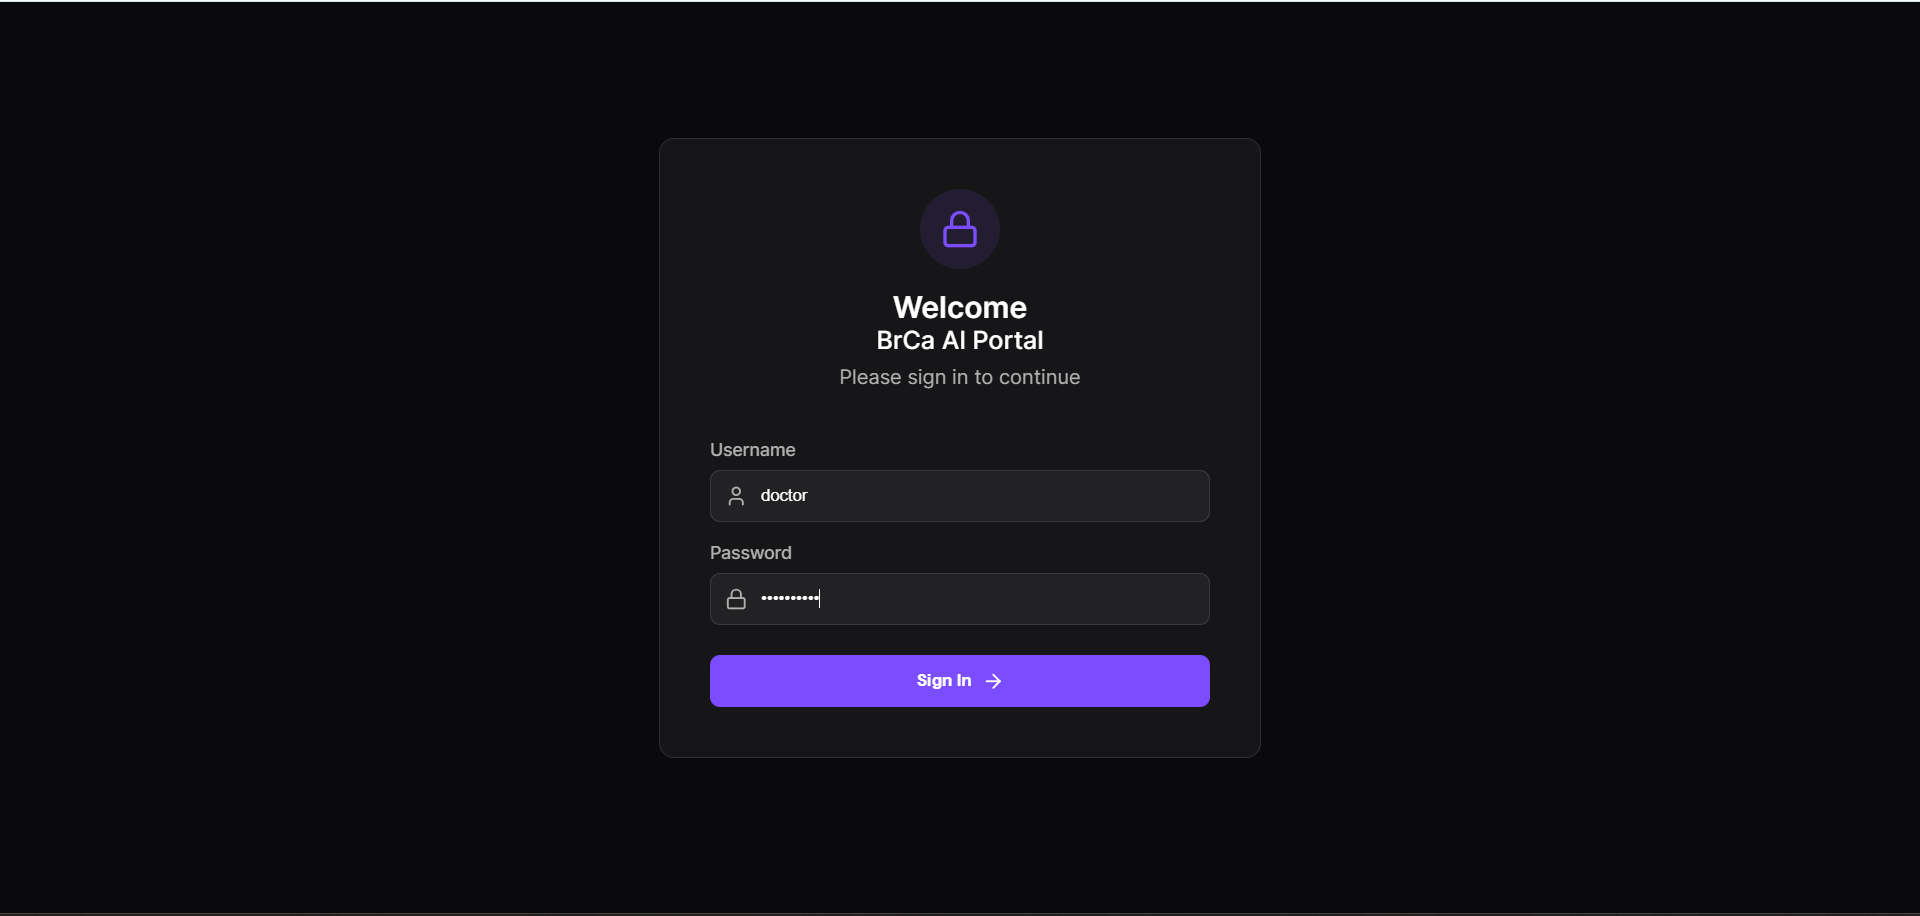
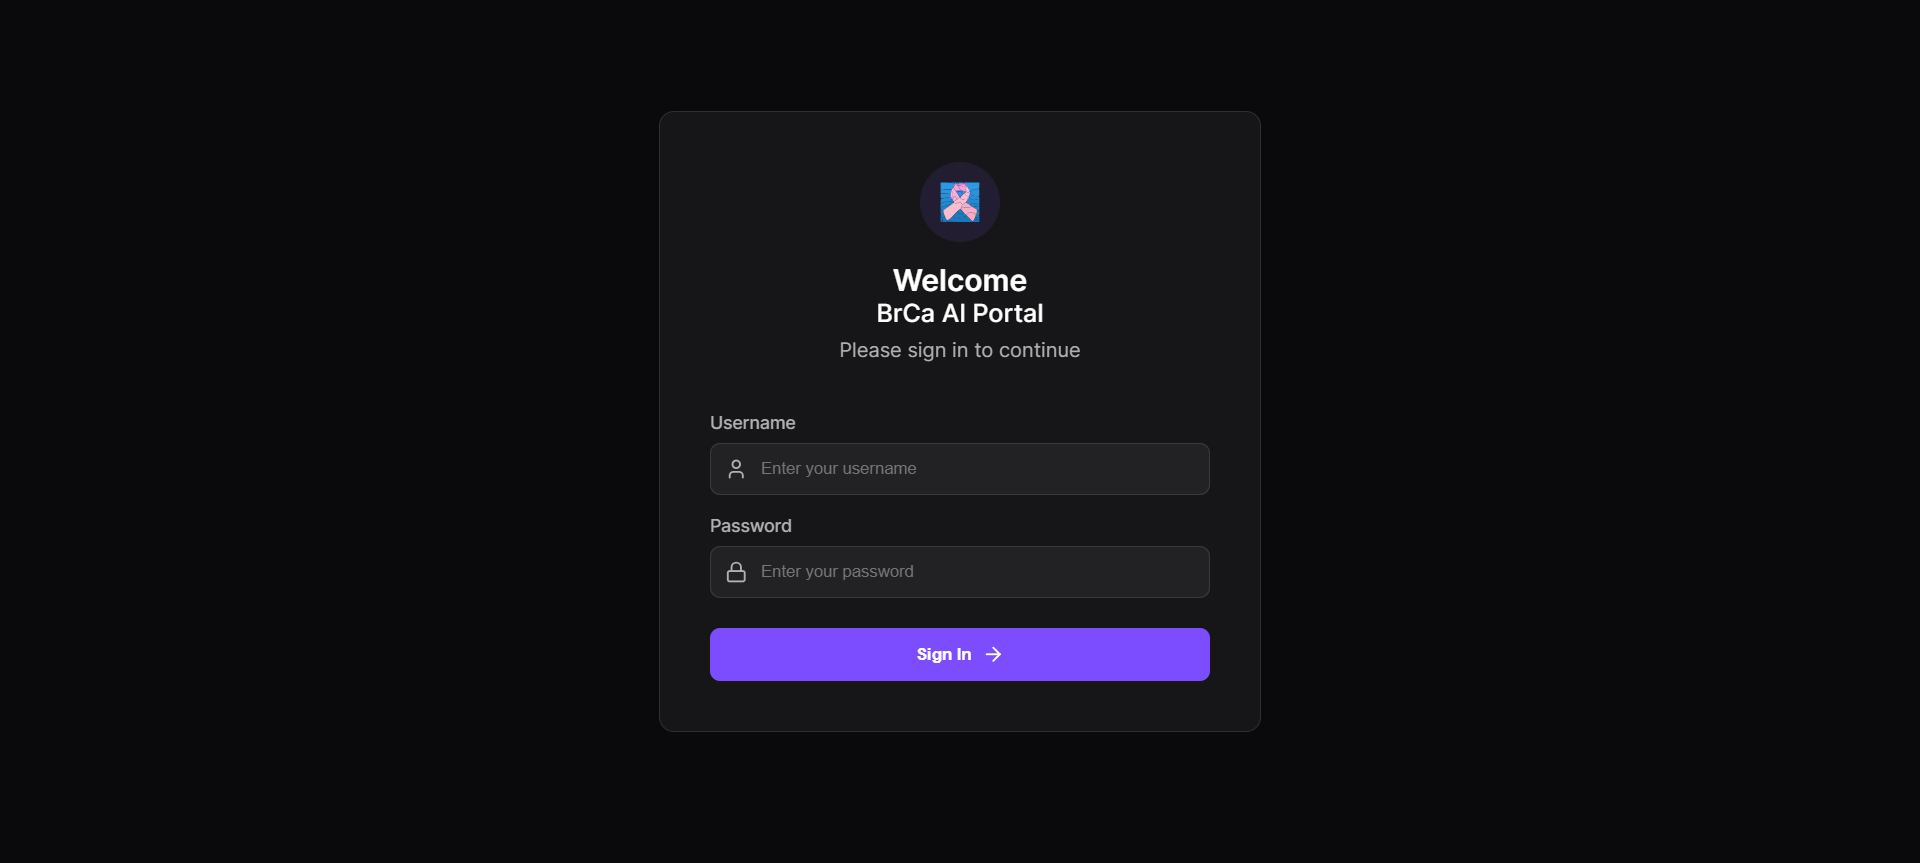
feat: Implement new React frontend for BrCa AI analysis with patient search, AI summary/Q&A, export functionalities, and add AI summary prompt configuration.

diff --git a/frontend/src/App.jsx b/frontend/src/App.jsx
@@ -567,6 +567,9 @@ function App() {
                 </div>
 
                 <div style={{ display: 'grid', gap: '20px' }}>
+
+
+
                   <div className="config-section">
                     <h3 style={{ margin: '0 0 12px 0', borderBottom: '1px solid var(--glass-border)', paddingBottom: '8px' }}>Google AI</h3>
                     <label style={{ display: 'block', marginBottom: '4px', fontSize: '0.9rem', color: 'var(--text-secondary)' }}>Google API Key</label>
@@ -610,6 +613,23 @@ function App() {
                       onChange={(e) => {
                         const newConfig = { ...config };
                         newConfig.providers.ollama.endpoint = e.target.value;
+                        setConfig(newConfig);
+                      }}
+                    />
+                  </div>
+                  <div style={{ marginTop: '12px', display: 'flex', gap: '12px' }}></div>
+                  {/* Prompts Section */}
+                  <div className="config-section">
+                    <h3 style={{ margin: '0 0 12px 0', borderBottom: '1px solid var(--glass-border)', paddingBottom: '8px' }}>Prompts</h3>
+                    <label style={{ display: 'block', marginBottom: '4px', fontSize: '0.9rem', color: 'var(--text-secondary)' }}>Summary Prompt Instructions</label>
+                    <textarea
+                      className="chat-input"
+                      style={{ width: '100%', height: '100px', padding: '10px', resize: 'vertical' }}
+                      value={config.prompts?.summary_prompt || ''}
+                      onChange={(e) => {
+                        const newConfig = { ...config };
+                        if (!newConfig.prompts) newConfig.prompts = {};
+                        newConfig.prompts.summary_prompt = e.target.value;
                         setConfig(newConfig);
                       }}
                     />

diff --git a/frontend/src/Login.jsx b/frontend/src/Login.jsx
@@ -63,8 +63,8 @@ function Login({ onLogin }) {
                             margin: '0 auto 16px',
                         }}
                     >
-                        <Lock size={32} color="var(--accent-color)" />
-                        {/* <LogoIcon width={64} height={64} color="var(--accent-color)" /> */}
+                        {/* <Lock size={32} color="var(--accent-color)" /> */}
+                        <LogoIcon width={32} height={32} color="var(--accent-color)" />
                     </div>
                     <h1 style={{ margin: 0, fontSize: '24px', fontWeight: 600 }}>Welcome</h1>
                     <h2 style={{ margin: 0, fontSize: '20px', fontWeight: 500 }}>BrCa AI Portal</h2>

diff --git a/frontend/src/LogoIcon.jsx b/frontend/src/LogoIcon.jsx
@@ -1,11 +1,11 @@
 import React from 'react';
 
-const LogoIcon = ({ width = 64, height = 64, color = 'currentColor', ...props }) => {
+const LogoIcon = ({ width = 32, height = 32, color = 'currentColor', ...props }) => {
 	return (
 		<svg
 			width={width}
 			height={height}
-			viewBox="0 0 24 24"
+			viewBox="0 0 66 66"
 			fill="none"
 			xmlns="http://www.w3.org/2000/svg"
 			{...props}

diff --git a/nlp_service.py b/nlp_service.py
@@ -11,6 +11,8 @@ load_dotenv()
 
 CONFIG_FILE = "ai_config.json"
 
+DEFAULT_SUMMARY_PROMPT = "You are a medical expert in Breast Cancer. Summarize the following patient data for a doctor. Focus on clinical diagnosis, stage, relevant investigations, and surgery details."
+
 class NLPService:
     def __init__(self):
         self.config = self.load_config()
@@ -21,6 +23,17 @@ class NLPService:
             try:
                 with open(CONFIG_FILE, "r") as f:
                     config = json.load(f)
+                    
+                    # Migrate old config / Ensure 'prompts' section exists
+                    if "prompts" not in config:
+                        config["prompts"] = {
+                            "summary_prompt": DEFAULT_SUMMARY_PROMPT
+                        }
+                        self.save_config(config)
+                    elif "summary_prompt" not in config["prompts"]:
+                         config["prompts"]["summary_prompt"] = DEFAULT_SUMMARY_PROMPT
+                         self.save_config(config)
+
                     # Sync with environment variable if API key is missing
                     if not config["providers"]["google"]["apiKey"]:
                         env_key = os.getenv("GOOGLE_API_KEY")
@@ -38,6 +51,9 @@ class NLPService:
                 "google": {"apiKey": os.getenv("GOOGLE_API_KEY") or "", "models": ["gemini-2.5-flash", "gemini-1.5-pro"]},
                 "openai": {"apiKey": "", "models": ["gpt-4o", "gpt-4o-mini"]},
                 "ollama": {"endpoint": "http://localhost:11434", "models": ["llama3", "mistral"]}
+            },
+            "prompts": {
+                "summary_prompt": DEFAULT_SUMMARY_PROMPT
             }
         }
         return default_config
@@ -112,7 +128,8 @@ class NLPService:
         if not context:
             return "Patient data not found."
         
-        prompt = f"You are a medical expert in Breast Cancer. Summarize the following patient data for a doctor. Focus on clinical diagnosis, stage, relevant investigations, and surgery details.\nPatient Data:\n{context}"
+        summary_instruction = self.config.get("prompts", {}).get("summary_prompt", DEFAULT_SUMMARY_PROMPT)
+        prompt = f"{summary_instruction}\nPatient Data:\n{context}"
         
         try:
             return self._generate_content(prompt)
